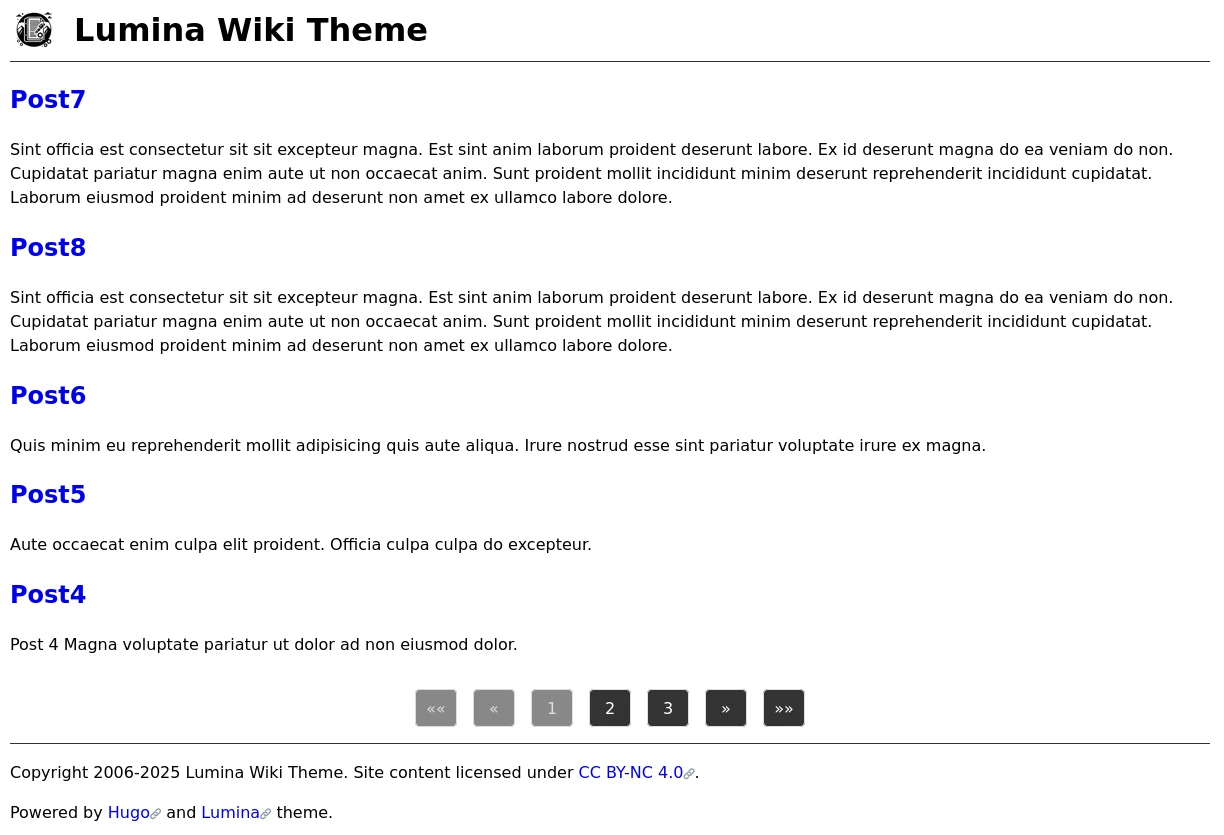
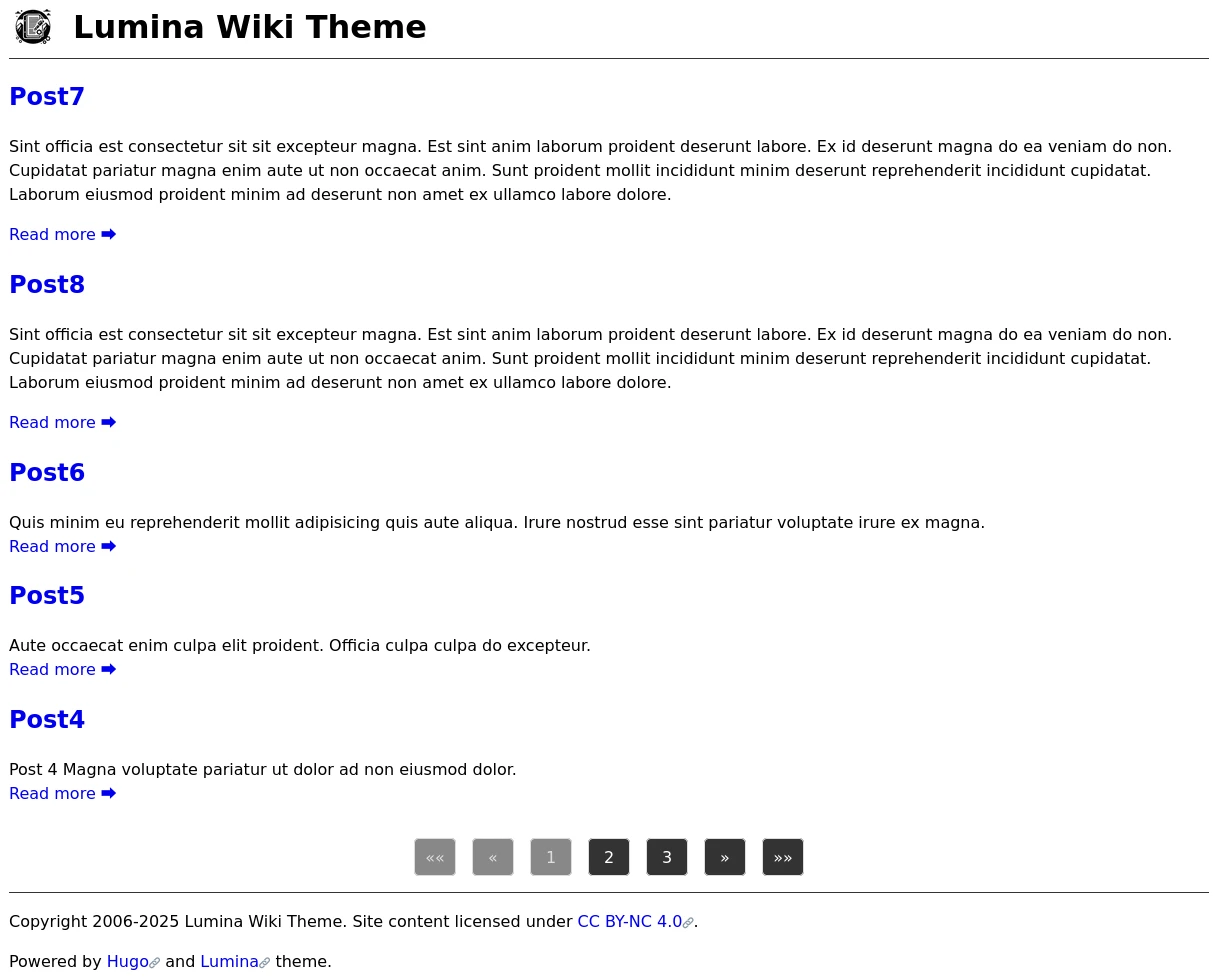
Added more links in posts page

diff --git a/layouts/_default/list.html b/layouts/_default/list.html
@@ -4,6 +4,10 @@
   {{ range $paginator.Pages }}
     <h2><a href="{{ .RelPermalink }}">{{ .LinkTitle }}</a></h2>
     {{ .Summary }}
+    {{ if .Truncated }}
+        <a class="moreLink" href="{{ .RelPermalink }}"> Read more &#x2b95; </a>
+    {{ end }}
+
   {{ end }}
 
   {{ template "_internal/pagination.html" . }}
